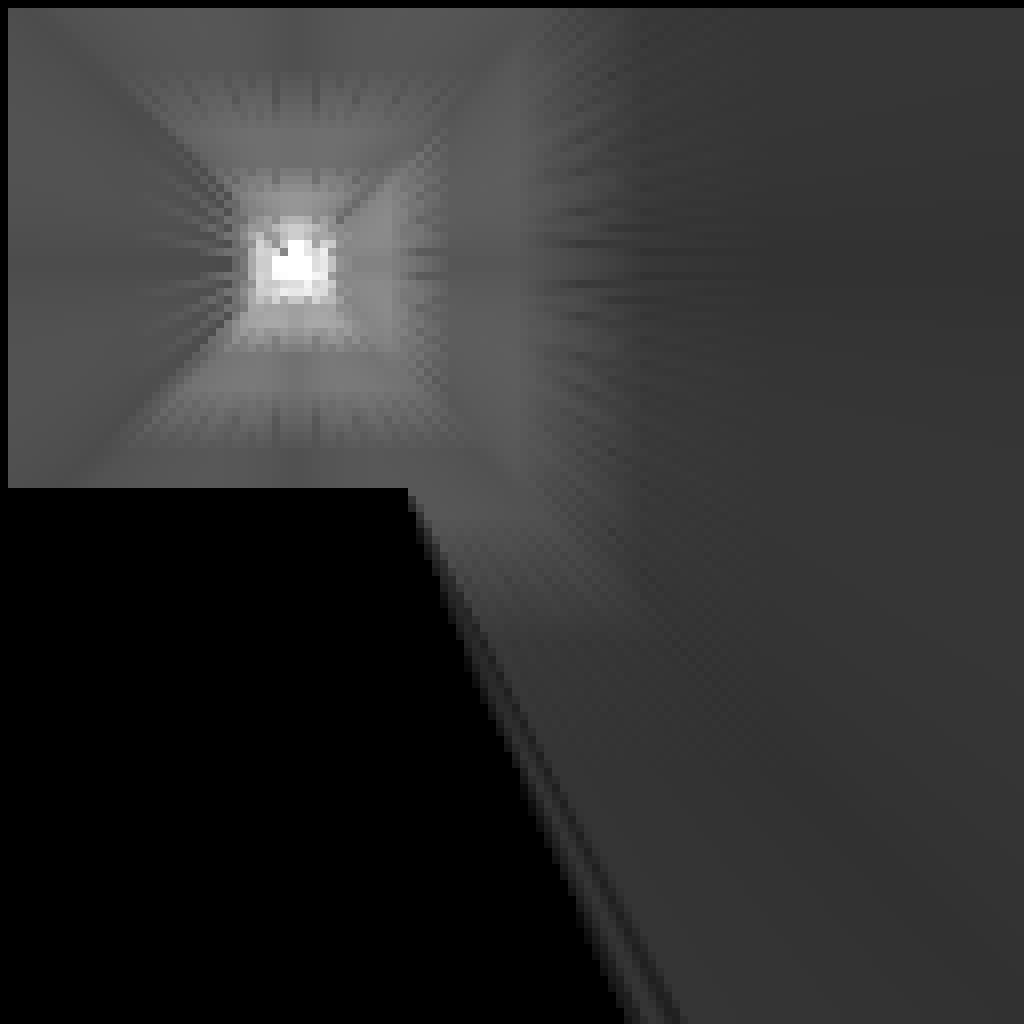
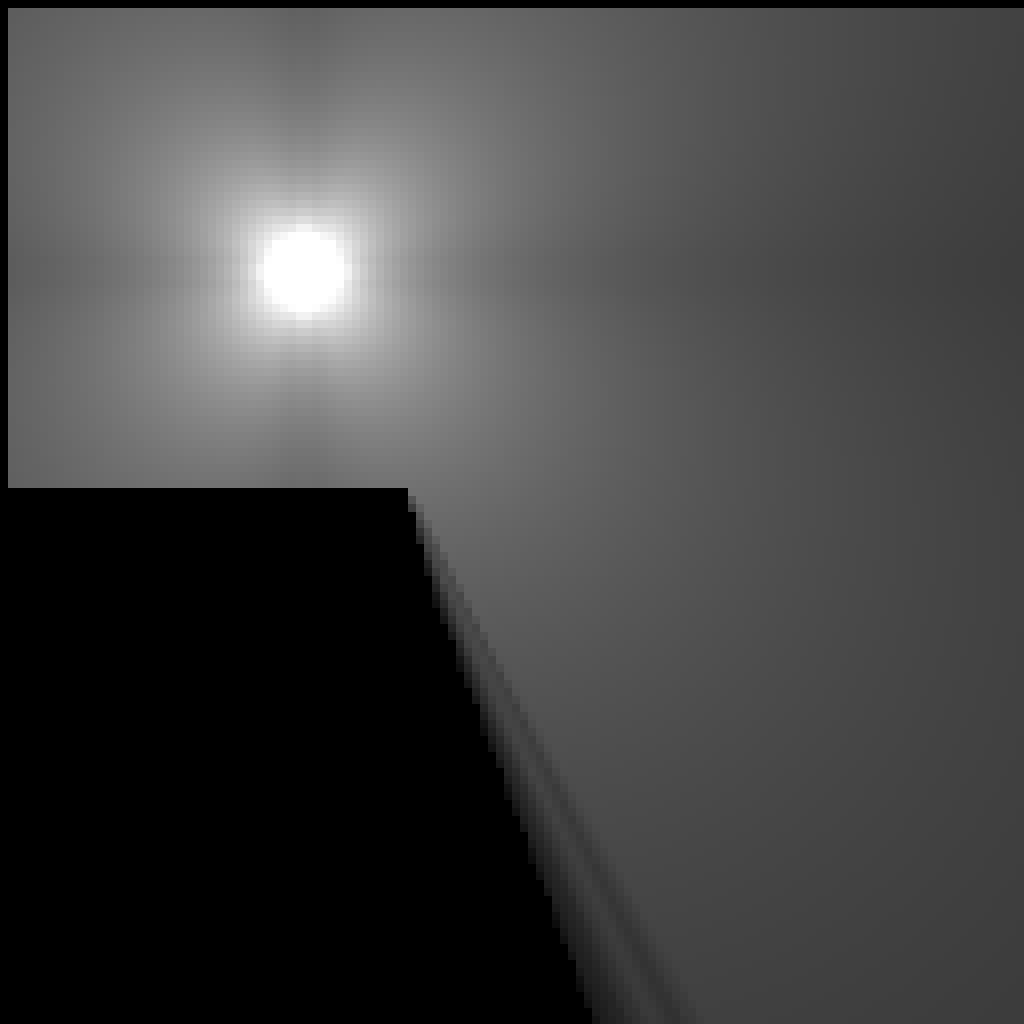
bugfix and update

diff --git a/src/render/ext.rs b/src/render/ext.rs
@@ -18,7 +18,6 @@ fn calculate_long_near<L: Radiance, I: Radiance>(
     cone: ConeFrustum,
     scene: &PixelScene,
     view_dir: ViewDirection,
-    simplify_occlusion: bool,
 ) -> I
 where
     I: ResampleRadiance<L>,
@@ -29,15 +28,16 @@ where
     let middle_end = start + cone.lower_dir() + cone.upper_dir();
 
     let middle = LineExtension { start, end: middle_end };
-    let middle = get_extension(ext_cache, middle.into(), scene, view_dir);
-
     let bottom = ConeExtension { start, end_bottom: lower_end };
     let top = ConeExtension { start, end_bottom: middle_end };
 
-    let bottom = get_extension(ext_cache, bottom.into(), scene, view_dir);
-    let top = get_extension(ext_cache, top.into(), scene, view_dir);
-    let result = bottom.radiance + top.radiance + middle.radiance * -2.0;
-    I::resample(result, cone.into(), cone.into())
+    // Each extension's radiance is relative to its own frustum (e.g. DirectionalPosition stores the emitter offset from
+    // that frustum's focus), and the three have different foci, so each must be resampled into the cone before they are
+    // combined.
+    let [bottom, top, middle] = [bottom.into(), top.into(), middle.into()].map(|ext| {
+        get_extension(ext_cache, ext, scene, view_dir).resample::<I>(ext.as_frustum(), cone.into()).radiance
+    });
+    bottom + top + middle * -2.0
 }
 
 pub fn get_radiance_recursive_ext<L: Radiance, I: Radiance>(
@@ -97,7 +97,7 @@ where
             far
         };
         let long = {
-            let near = calculate_long_near::<L, I>(ext_cache, cone, scene, view_dir, simplify_occlusion);
+            let near = calculate_long_near::<L, I>(ext_cache, cone, scene, view_dir);
             let far = merge_odd(frustum, true, true).into_iter().map(|(f, _weight)| {
                 get_radiance_recursive_ext(ext_cache, cache, f, scene, settings).reproject(f, frustum)
                     * transmittance_between(ext_cache, f)

diff --git a/AGENTS.md b/AGENTS.md
@@ -1,1 +1,9 @@
+This is a modified implementation of Holographic Radiance Cascades with polygons explicitly constructed to fill the space properly, and moments / gradients in order to reproject radiance with odd merging.
+
+Running:
+
+```
+> cargo r --bin offline --release -- --ext --scene [scene-name] --output [output-file]
+```
+
 When writing one-off tests, **always** put them in a file in `unchecked_tests/tests` instead of making them temporary.
